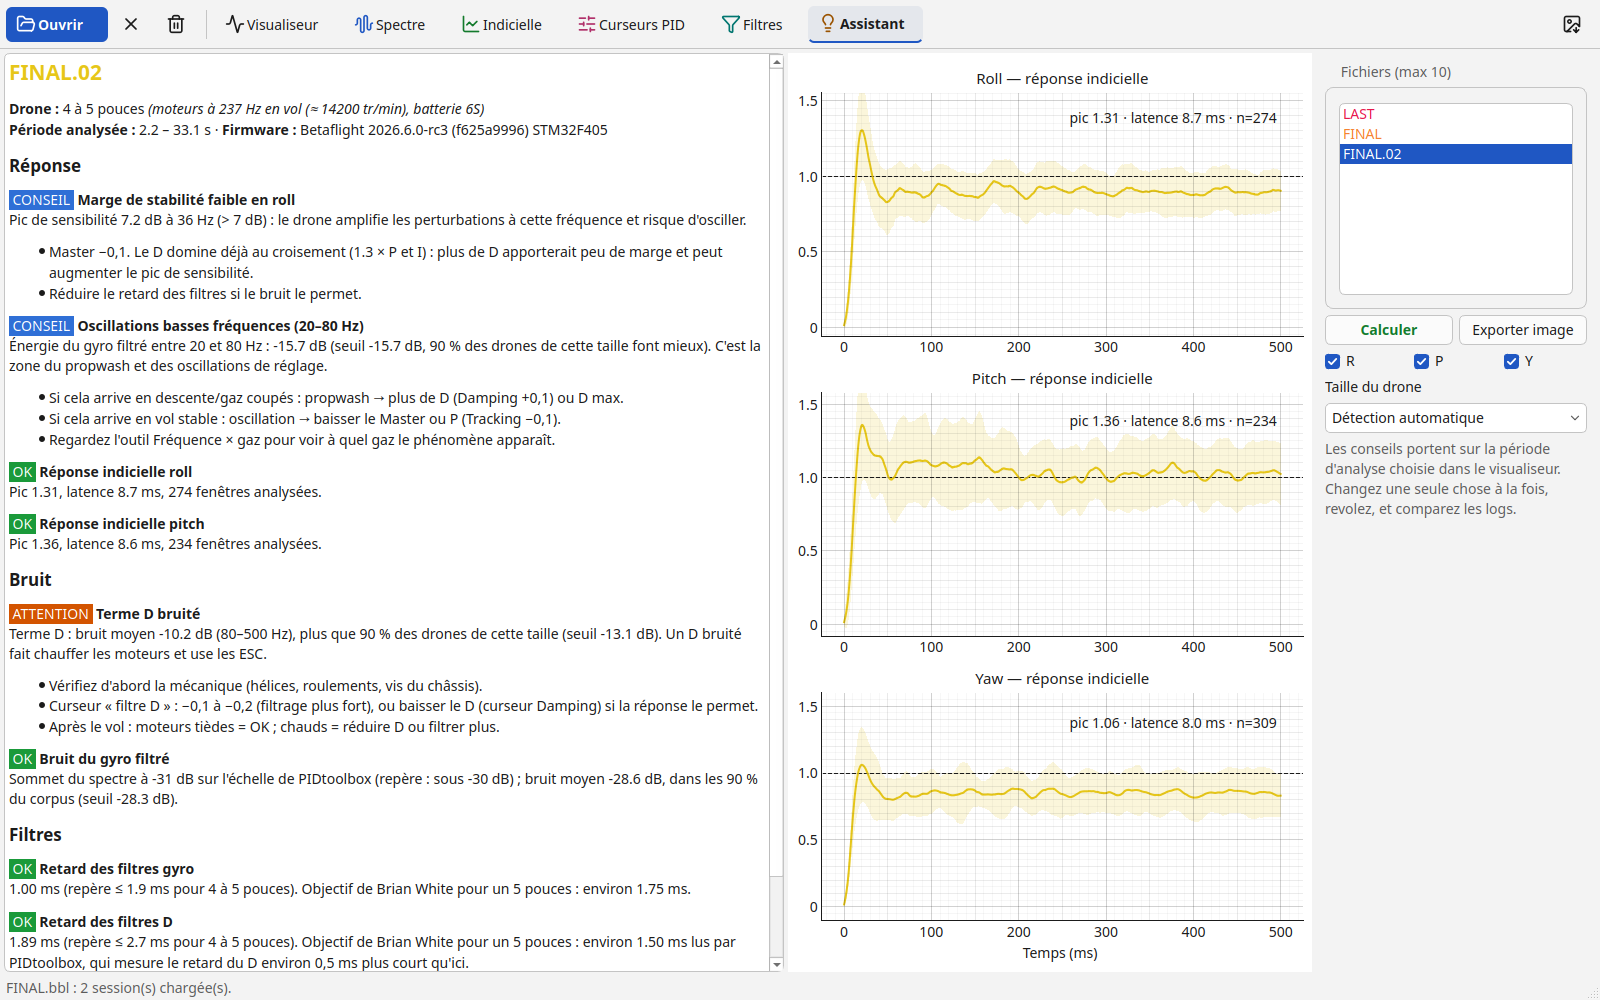
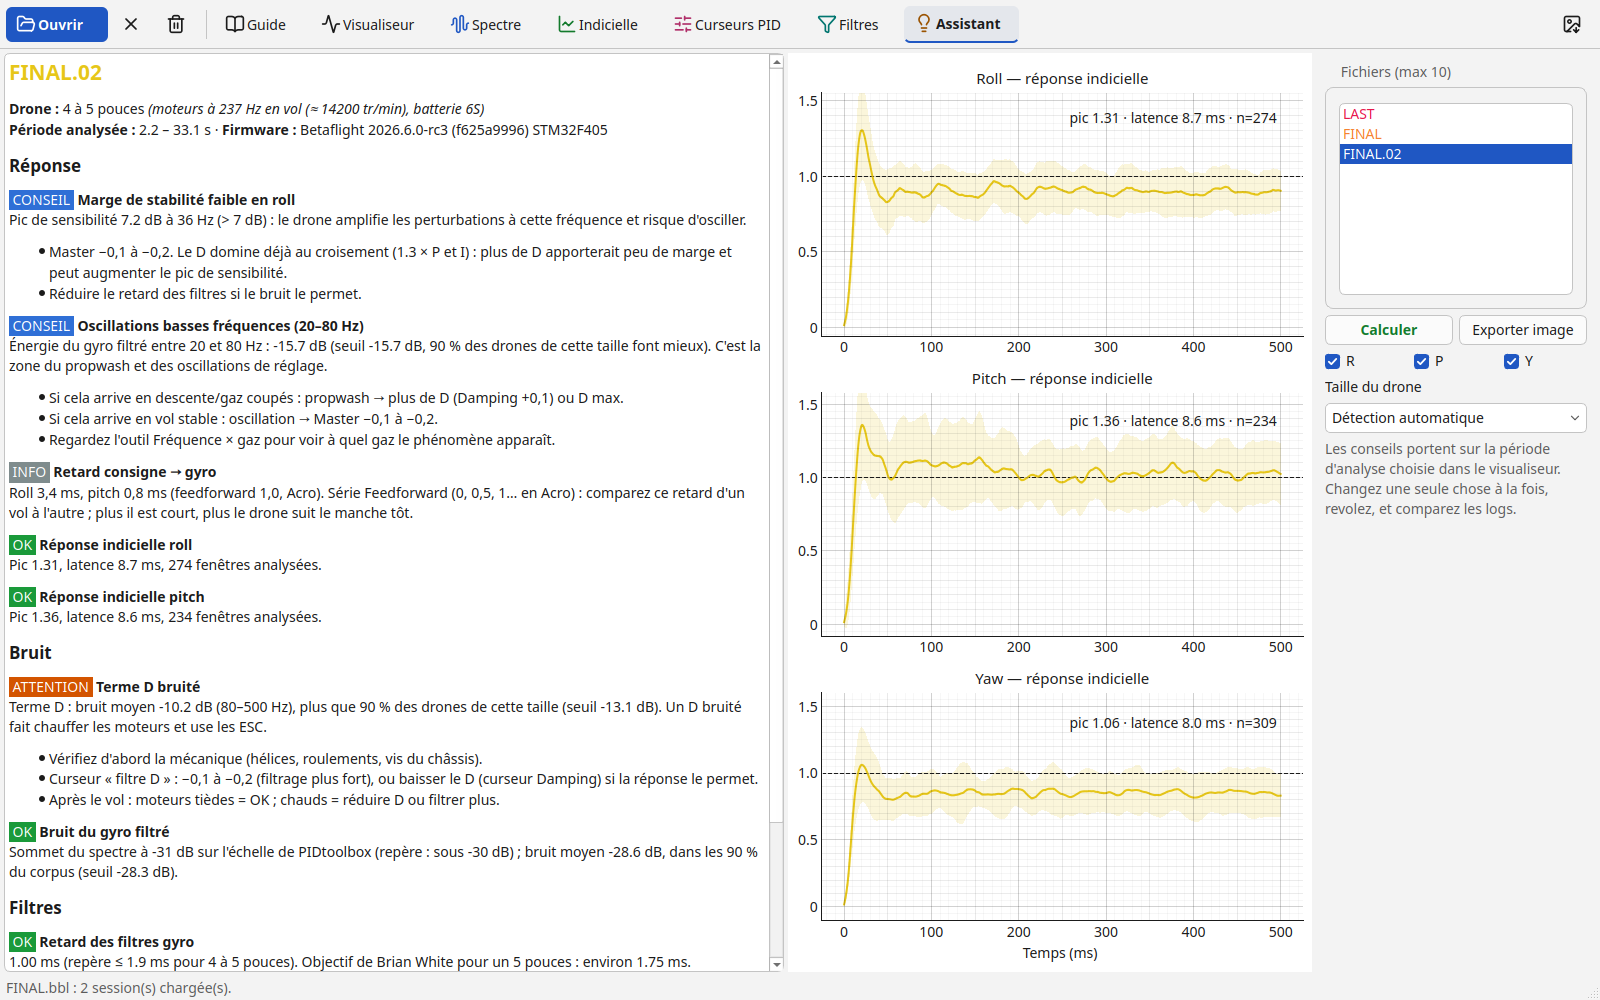
Refaire les captures du README et isoler les réglages des scripts de capture
Les trois captures (visualiseur, réponse indicielle, Assistant) dataient
d'avant le Guide et montraient d'anciens conseils de curseurs. Le script de
capture hors écran écrivait dans les vrais réglages de l'utilisateur (L-029) :
mode test de QStandardPaths obligatoire, procédure détaillée dans la
compétence opentunebox-dev.

diff --git a/docs/lecons.md b/docs/lecons.md
@@ -338,10 +338,25 @@ automatique : `tests/test_advisor_synthetic.py:test_step_peak_angle_mode_uses_th
 - **Preuve** — mesure du 2026-10-12 (`pytest-cov`, installé dans `.venv` seulement) ; `tests/test_gui_tools.py`
   exerce les 8 pages d'outils sans corpus.
 
+### L-029 : un script Qt lancé hors de pytest écrit dans les vrais réglages de l'utilisateur
+- **Symptôme** — 2026-10-13 : après un script de captures hors écran (`MainWindow` + `load_paths` + `close()`),
+  `~/.config/OpenTuneBox/OpenTuneBox.conf` porte la date du script ; `_change_theme("clair")` y aurait aussi
+  remplacé le thème choisi par Cédric. Rien en console.
+- **Cause** — lue dans `gui/main_window.py` : `load_paths` enregistre `last_dir`, `_change_theme` enregistre
+  `theme`, `closeEvent` enregistre la géométrie de la fenêtre (`save_geometry`) ; `QSettings` écrit dans le
+  dossier de l'utilisateur. Les tests sont protégés par `conftest.py` (`QStandardPaths.setTestModeEnabled`),
+  pas un script lancé à la main. Géométrie écrasée par le script de ce jour : supposé (valeur d'avant inconnue).
+- **Règle** — tout script Qt hors de pytest commence par `QStandardPaths.setTestModeEnabled(True)` avant
+  `QApplication` (compétence `opentunebox-dev`, « Captures hors écran ») ; vérifier la date du fichier de
+  réglages après un script douteux.
+- **Preuve** — `tests/conftest.py:pytest_configure` ; dates de `OpenTuneBox.conf` (réel 18:06, dossier de test
+  `~/.qttest/config/` 18:07 après la correction).
+
 ## Index rapide
 
 | ID | Piège (et la règle, en une phrase) | Domaine |
 |---|---|---|
+| L-029 | Script Qt hors pytest : réglages réels écrasés. `QStandardPaths.setTestModeEnabled(True)` d'abord | Outillage |
 | L-028 | Filtre RPM ≠ masque : appliquer sa réponse (poids, Q) ; vérifier sur le debug FFT_FREQ | Analyses |
 | L-027 | `corrupt_frames` ≠ temps perdu. Trous de temps (`recording_gaps`) | Décodeur et logs |
 | L-026 | Oscillation injectée par le gyro : invisible dans la réponse. Injecter par la consigne | Analyses |

diff --git a/.claude/skills/opentunebox-dev/SKILL.md b/.claude/skills/opentunebox-dev/SKILL.md
@@ -51,9 +51,16 @@ Objectif : ne pas faire baisser la proportion de sessions `ok` (95 %).
 ## Captures hors écran
 
 Script dans le répertoire temporaire de la session, lancé avec `QT_QPA_PLATFORM=offscreen` :
-créer `MainWindow`, `load_paths([...])`, pomper les événements (`app.processEvents()` en boucle) jusqu'à
-`win._loading == 0`, `open_tool(clé)`, attendre `not w._busy and w._last_result is not None`,
-`w.grab().save(...)`, puis **`hard_exit(0, wait_all)`**. Toujours regarder l'image produite.
+**`QStandardPaths.setTestModeEnabled(True)` avant `QApplication`** (sinon le script écrit dans les vrais
+réglages de Cédric : dossier des logs, thème, géométrie de la fenêtre à la fermeture, L-029), créer
+`MainWindow`, `win._change_theme("clair")` pour les captures du README (la fenêtre recharge le thème
+enregistré), `load_paths([...])`, pomper les événements (`app.processEvents()` puis `time.sleep(0.02)` en
+boucle, avec un délai en secondes) jusqu'à `win._loading == 0`, `open_tool(clé)`, attendre
+`not w._busy and w._last_result is not None` ; pour plusieurs logs, `w.files.selectAll()` puis `w.run()`
+et attendre de nouveau ; `w.grab().save(...)` ; ne pas fermer une fenêtre dont un calcul tourne encore
+(`wait_all()` d'abord), puis **`hard_exit(0, wait_all)`**. Toujours regarder l'image produite.
+Captures du README : `Cedric/JeNo 5/FINAL.bbl` (visualiseur, 1500 × 950, session FINAL.02) ; `LAST.bbl` +
+`FINAL.bbl` (réponse indicielle avec les trois sessions, Assistant sur FINAL.02, 1600 × 1000).
 
 ## Calibrer l'assistant
 

diff --git a/CHANGELOG.md b/CHANGELOG.md
@@ -170,7 +170,9 @@ Format inspiré de [Keep a Changelog](https://keepachangelog.com/fr/1.1.0/) ; nu
   `docs/assistant.md` (Q minimum du notch dynamique 250, pas de `rpm_filter_q` −100, marge des poids RPM
   3 dB, taille par le nom en service), `docs/spec-methodes.md` (bornes de fréquence moteur par taille
   remplacées par celles du code, protocole d'enregistrement du guide), `docs/validation.md`, compétences ;
-  leçons L-022 à L-028 rangées par domaine, nouvelle section « Outillage ».
+  leçons L-022 à L-028 rangées par domaine, nouvelle section « Outillage ». Captures du README refaites
+  (visualiseur, réponse indicielle, Assistant) : elles dataient d'avant le Guide et montraient d'anciens
+  conseils de curseurs.
 
 ## [0.6.0] — 2026-10-12
 
